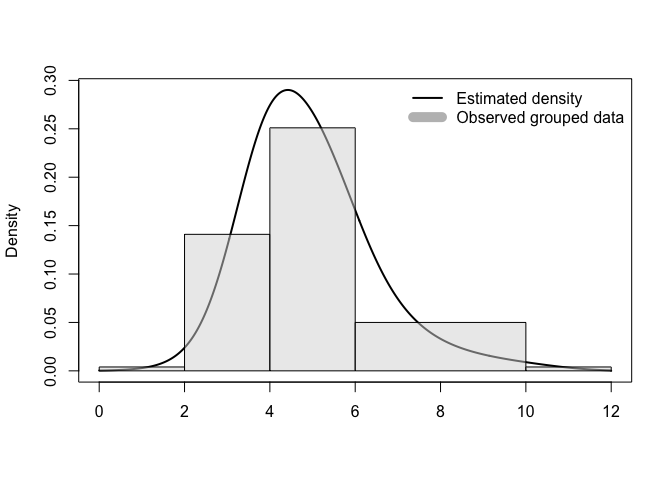
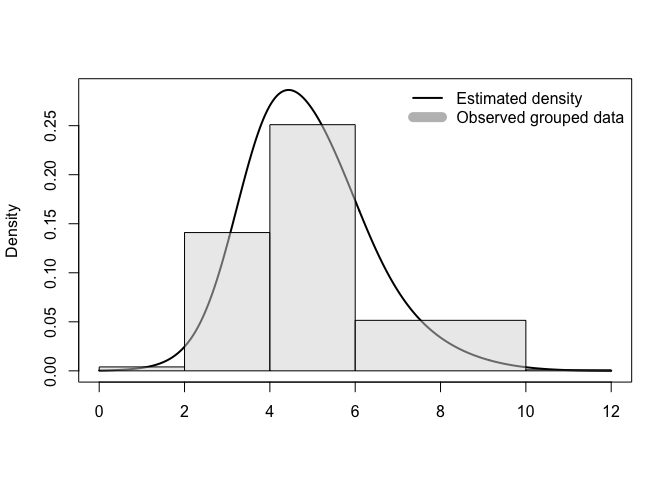
Update README

diff --git a/README.md b/README.md
@@ -229,7 +229,7 @@ print(fit)
     ## Right censored data: 65 (8.6 percents)
     ## -----------------------------------------------------------------------
     ## Convergence status: TRUE 
-    ## Elapsed time: 0.36 seconds  (5 iterations)
+    ## Elapsed time: 0.35 seconds  (5 iterations)
     ## -----------------------------------------------------------------------
 
 It suggests an average increase of 252 euros (available per person in
@@ -370,7 +370,7 @@ print(obj)
     ##   Selected penalty parameter <tau>: 23.4 
     ##   Effective number of parameters: 5.4 
     ## -----------------------------------------------------------------------
-    ## Elapsed time: 0.05 seconds  (6 iterations)
+    ## Elapsed time: 0.04 seconds  (6 iterations)
     ## -----------------------------------------------------------------------
 
 The estimated density and cdf can also be visualized and compared to
@@ -421,7 +421,7 @@ the following grouped data:
 brks = c(0,2,4,6,10,12) ## Limits of the grouped data
 ymat = cbind(low=head(brks,-1), up=tail(brks,-1)) ## Data categories
 rownames(ymat) = c("(0,2]","(2,4]","(4,6]","(6,10]","(10,12]") ## 
-w = c(4,141,251,100,4) ## Weights
+w = c(4,141,251,103,1) ## Weights
 print(cbind(ymat,weight=w)) ## Observed grouped data
 ```
 
@@ -429,8 +429,8 @@ print(cbind(ymat,weight=w)) ## Observed grouped data
     ## (0,2]     0  2      4
     ## (2,4]     2  4    141
     ## (4,6]     4  6    251
-    ## (6,10]    6 10    100
-    ## (10,12]  10 12      4
+    ## (6,10]    6 10    103
+    ## (10,12]  10 12      1
 
 They can be visualised using an histogram:
 
@@ -469,12 +469,12 @@ print(obj)
     ##   Returned functions:  ddist, pdist, hdist, Hdist(x)
     ##   Parameter estimates:  phi, tau
     ##   Value of the estimated cdf at +infty: 1 
-    ##   Mean of the fitted density: 4.932674 
-    ##   Variance of the fitted density: 2.442753 
-    ##   Selected penalty parameter <tau>: 13 
-    ##   Effective number of parameters: 7.4 
+    ##   Mean of the fitted density: 4.897135 
+    ##   Variance of the fitted density: 2.181506 
+    ##   Selected penalty parameter <tau>: 14.7 
+    ##   Effective number of parameters: 6.9 
     ## -----------------------------------------------------------------------
-    ## Elapsed time: 0.01 seconds  (7 iterations)
+    ## Elapsed time: 0.01 seconds  (6 iterations)
     ## -----------------------------------------------------------------------
 
 ``` r
